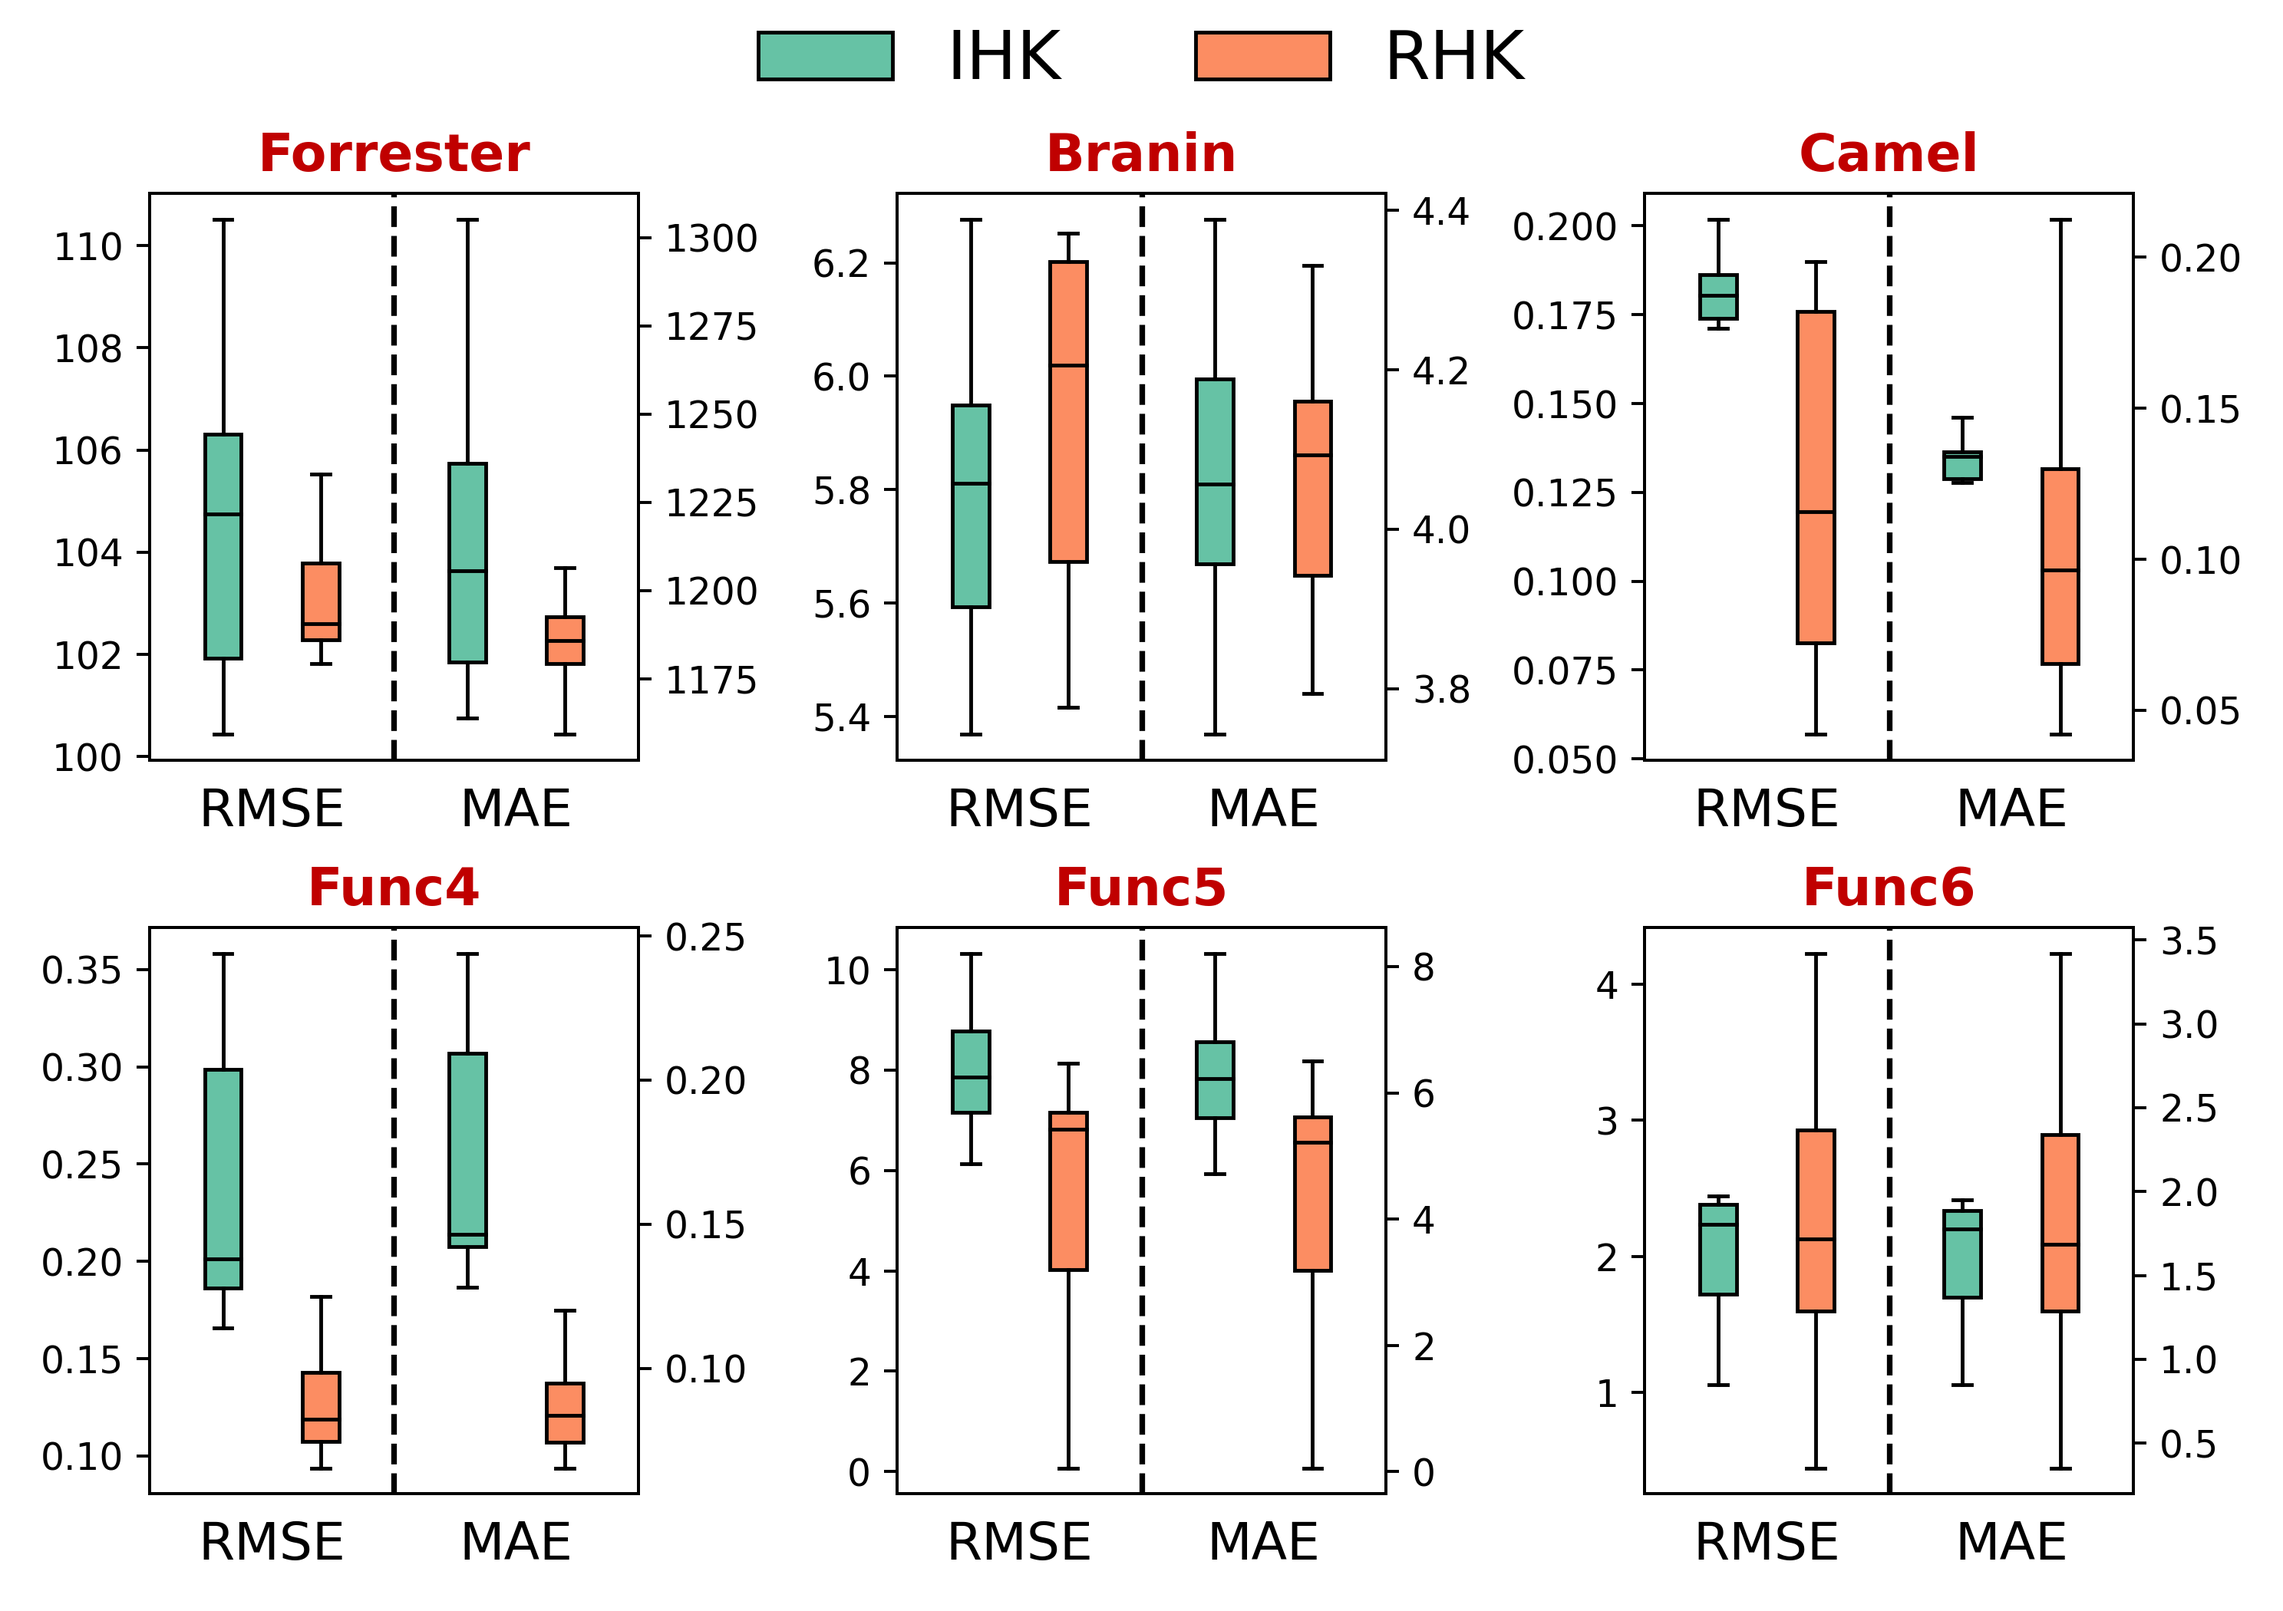
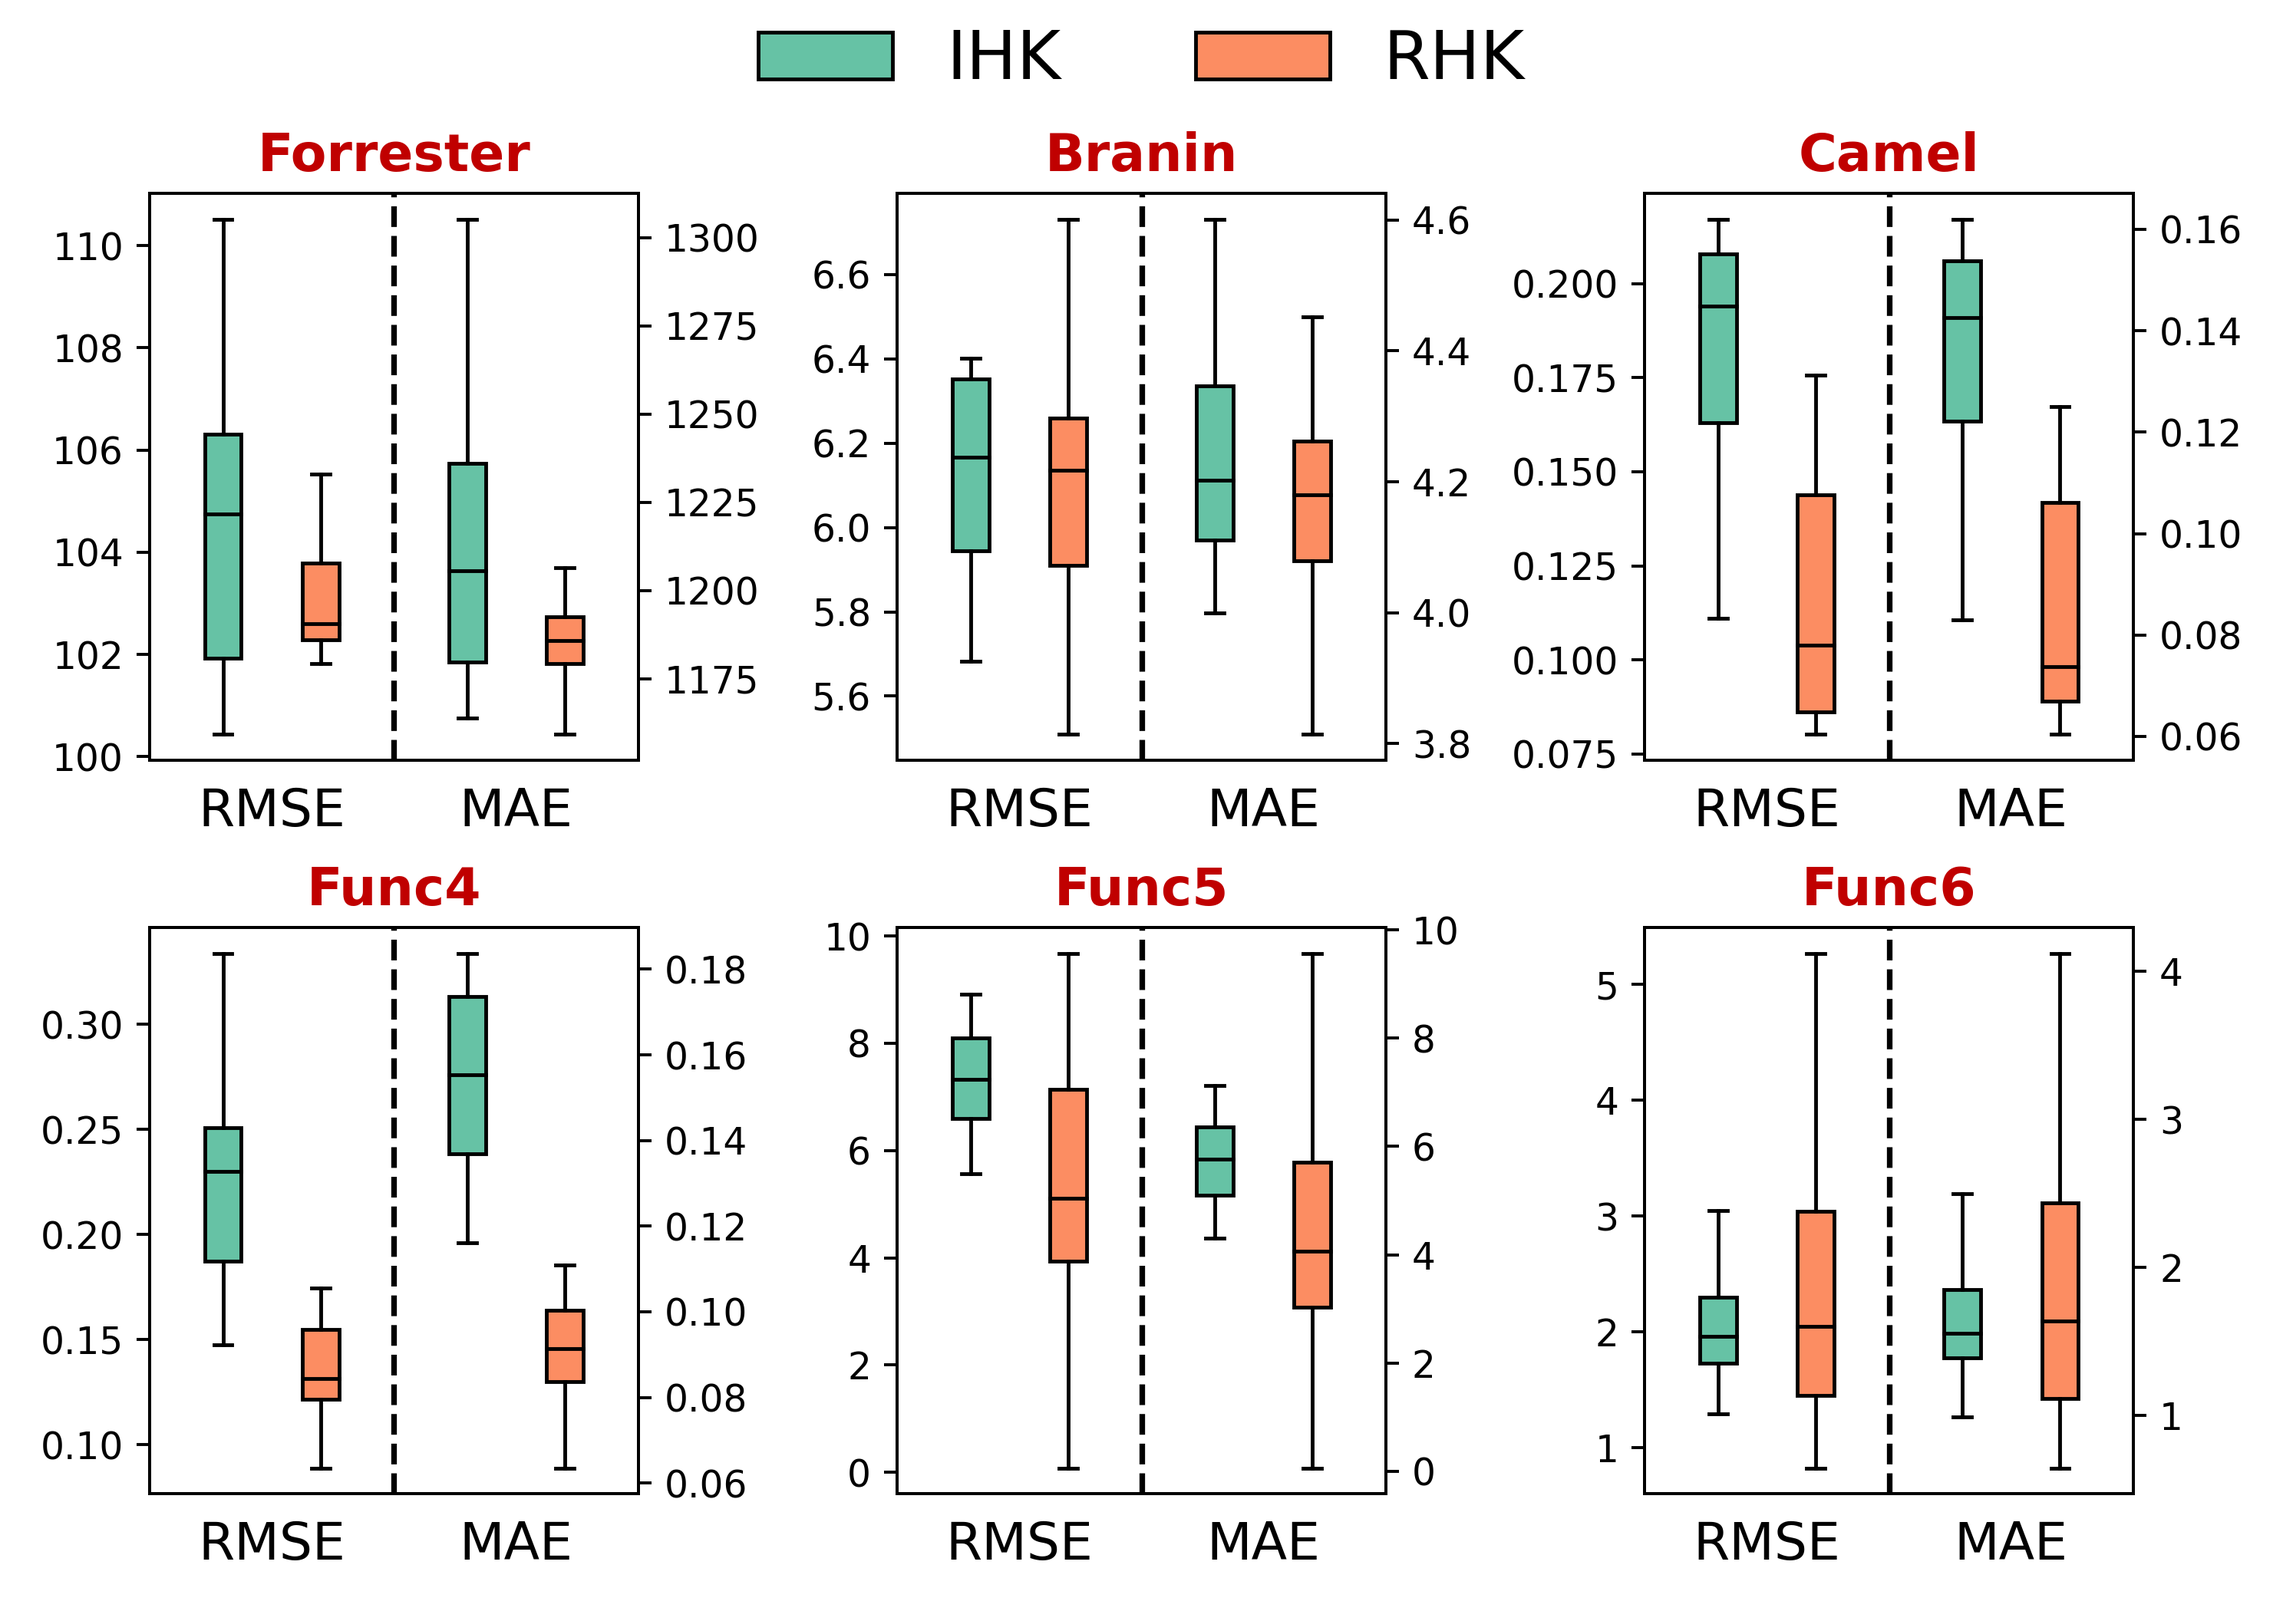
230628

diff --git a/Eng_2d_RAE2822/asdf.py b/Eng_2d_RAE2822/asdf.py
@@ -1,13 +1,21 @@
 from run_functions.train_models import train_models
 from Eng_2d_RAE2822.plot_2d_RAE import *
 import numpy as np
+from sklearn.preprocessing import MinMaxScaler
 
 
 qoi_data = np.load("RAE2822_2D_qoi.npy")
 ma_data = np.load("RAE2822_2D_ma.npy")
 aoa_data = np.load("RAE2822_2D_aoa.npy")
 
-index_qoi = 1 # 0: Cl, 1: Cd, 2:Cm
+# Normalize Ma, AoA
+# ma_scaler, aoa_scaler = MinMaxScaler(), MinMaxScaler()
+# ma_data = ma_scaler.fit_transform(ma_data.reshape(-1, 1))
+# aoa_data = aoa_scaler.fit_transform(aoa_data.reshape(-1, 1))
+# ma_data, aoa_data = ma_data.reshape(-1), aoa_data.reshape(-1)
+
+index_qoi = 2 # 0: Cl, 1: Cd, 2:Cm
+coef_name = ["cl", "cd", "cm"]
 
 entire_x = np.zeros((ma_data.shape[0] * aoa_data.shape[0], 2))
 entire_LF_y = np.zeros((ma_data.shape[0] * aoa_data.shape[0]))
@@ -23,9 +31,9 @@ for ma_idx in range(qoi_data.shape[2]):
         entire_HF_y[qoi_data.shape[3] * ma_idx + aoa_idx] = qoi_data[2, index_qoi, ma_idx, aoa_idx]
 
 np.random.seed(42)
-LF_rand_idx = np.random.choice(np.arange(0, ma_data.shape[0] * aoa_data.shape[0]), size=100, replace=False)
-MF_rand_idx = np.random.choice(np.arange(0, ma_data.shape[0] * aoa_data.shape[0]), size=50, replace=False)
-HF_rand_idx = np.random.choice(np.arange(0, ma_data.shape[0] * aoa_data.shape[0]), size=25, replace=False)
+LF_rand_idx = np.random.choice(np.arange(0, ma_data.shape[0] * aoa_data.shape[0]), size=150, replace=False)
+MF_rand_idx = np.random.choice(np.arange(0, ma_data.shape[0] * aoa_data.shape[0]), size=100, replace=False)
+HF_rand_idx = np.random.choice(np.arange(0, ma_data.shape[0] * aoa_data.shape[0]), size=50, replace=False)
 
 LF_x = entire_x[LF_rand_idx]
 MF_x = entire_x[MF_rand_idx]
@@ -52,9 +60,9 @@ print("RHK likelihood: ", np.mean(RHK_likeli, axis=0))
 print("RHK error: ", np.mean(r_errors, axis=0))
 print("RHK time: ", np.sum(RHK_time))
 
-np.save(f"IHK_likeli.npy", IHK_likeli)
-np.save(f"RHK_likeli.npy", RHK_likeli)
-np.save(f"IHK_i_errors.npy", i_errors)
-np.save(f"RHK_r_errors.npy", r_errors)
-np.save(f"IHK_time.npy", IHK_time)
-np.save(f"RHK_time.npy", RHK_time)
+np.save(f"IHK_likeli_{coef_name[index_qoi]}.npy", IHK_likeli)
+np.save(f"RHK_likeli_{coef_name[index_qoi]}.npy", RHK_likeli)
+np.save(f"IHK_i_errors_{coef_name[index_qoi]}.npy", i_errors)
+np.save(f"RHK_r_errors_{coef_name[index_qoi]}.npy", r_errors)
+np.save(f"IHK_time_{coef_name[index_qoi]}.npy", IHK_time)
+np.save(f"RHK_time_{coef_name[index_qoi]}.npy", RHK_time)

diff --git a/run_functions/train_models.py b/run_functions/train_models.py
@@ -2,8 +2,22 @@ from surrogate_model.HK import HK
 import numpy as np
 import copy
 import time
+from sklearn.preprocessing import MinMaxScaler
 
 def train_models(X, Y, add_noise=None, pop=30, gen=100, repetition=1, history=False, print_time=True, rand_seed=42, test_x=None, test_y=None):
+
+	x_scaler_list, x_scaled = [], []
+	for level, x in enumerate(X):
+		if level == 0:
+			x_scaler = MinMaxScaler()
+			x = x_scaler.fit_transform(x)
+		else:
+		# x_scaler_list.append(x_scaler)
+			x = x_scaler.transform(x)
+		x_scaled.append(x)
+	X = x_scaled
+
+	test_x = x_scaler.transform(test_x)
 
 	if add_noise is None:
 		add_noise = [[0, 0.2, 0.2], [1, 0.1, 0.1]] # Default noise: add std=0.2 Gaussian noise to the lowest fidelity output & std=0.1 to the mid fidelity output
@@ -50,4 +64,4 @@ def train_models(X, Y, add_noise=None, pop=30, gen=100, repetition=1, history=Fa
 		print(f"{repeat + 1}th IHK time: {IHK_time_ / 60:.3f} m & error: {i_errors[repeat]}")
 		print(f"{repeat + 1}th RHK time: {RHK_time_ / 60:.3f} m & error: {r_errors[repeat]}")
 		print(IHK.total_MLE, RHK.total_MLE)
-	return IHKs, RHKs, i_errors, r_errors, IHK_likeli, RHK_likeli, np.array(IHK_time), np.array(RHK_time)
+	return IHKs, RHKs, i_errors, r_errors, IHK_likeli, RHK_likeli, np.array(IHK_time), np.array(RHK_time), x_scaler

diff --git a/run_functions/Test_function_6.py b/run_functions/Test_function_6.py
@@ -19,9 +19,9 @@ HF_y = HF_function(HF_x).reshape(-1, 1)
 test_x = lhs(in_dim, samples=300, criterion='maximin') * 1 + 2
 ground_truth = HF_function(test_x)
 
-IHKs, RHKs, i_errors, r_errors, IHK_likeli, RHK_likeli, IHK_time, RHK_time = train_models([LF_x, MF_x, HF_x], [LF_y, MF_y, HF_y],
+IHKs, RHKs, i_errors, r_errors, IHK_likeli, RHK_likeli, IHK_time, RHK_time, x_scaler = train_models([LF_x, MF_x, HF_x], [LF_y, MF_y, HF_y],
                                               test_x=test_x, test_y=ground_truth,
-                                              history=True, repetition=15, add_noise=[[0, 0.01, 0.5], [1, 0.01/2, 0.5/2]], rand_seed=42)
+                                              history=True, repetition=1, add_noise=[[0, 0.01, 0.5], [1, 0.01/2, 0.5/2]], rand_seed=42)
 
 print("IHK likelihood: ", np.mean(IHK_likeli, axis=0))
 print("IHK error: ", np.mean(i_errors, axis=0))
@@ -38,6 +38,7 @@ np.save(f"../results_functions/error/RHK_{function_name}.npy", r_errors)
 np.save(f"../results_functions/time/IHK_{function_name}.npy", IHK_time)
 np.save(f"../results_functions/time/RHK_{function_name}.npy", RHK_time)
 
+test_x = x_scaler.transform(test_x)
 i_pred = IHKs[0].predict(test_x, return_std=False)
 r_pred = RHKs[0].predict(test_x, return_std=False)
 

diff --git a/run_functions/Camel_function.py b/run_functions/Camel_function.py
@@ -25,7 +25,7 @@ HF_y = HF_function(HF_x).reshape(-1, 1)
 test_x = scaling_x(lhs(in_dim, samples=300, criterion='maximin'))
 ground_truth = HF_function(test_x)
 # print(np.min(ground_truth), np.max(ground_truth), np.max(ground_truth) - np.min(ground_truth))
-IHKs, RHKs, i_errors, r_errors, IHK_likeli, RHK_likeli, IHK_time, RHK_time = train_models([LF_x, MF_x, HF_x], [LF_y, MF_y, HF_y],
+IHKs, RHKs, i_errors, r_errors, IHK_likeli, RHK_likeli, IHK_time, RHK_time, x_scaler = train_models([LF_x, MF_x, HF_x], [LF_y, MF_y, HF_y],
                                               test_x=test_x, test_y=ground_truth,
                                               # history=True, repetition=15, add_noise=[[0, 0.0, 0.0], [1, 0.0, 0.0]], rand_seed=42)
                                               history=True, repetition=15, add_noise=[[0, 0.02, 0.04], [1, 0.02/2, 0.04/2]], rand_seed=42)
@@ -45,6 +45,7 @@ np.save(f"../results_functions/error/RHK_{function_name}.npy", r_errors)
 np.save(f"../results_functions/time/IHK_{function_name}.npy", IHK_time)
 np.save(f"../results_functions/time/RHK_{function_name}.npy", RHK_time)
 
+test_x = x_scaler.transform(test_x)
 i_pred = IHKs[0].predict(test_x, return_std=False)
 r_pred = RHKs[0].predict(test_x, return_std=False)
 

diff --git a/run_functions/Branin_function.py b/run_functions/Branin_function.py
@@ -25,7 +25,7 @@ HF_y = HF_function(HF_x).reshape(-1, 1)
 test_x = scaling_x(lhs(in_dim, samples=300, criterion='maximin'))
 ground_truth = HF_function(test_x)
 
-IHKs, RHKs, i_errors, r_errors, IHK_likeli, RHK_likeli, IHK_time, RHK_time = train_models([LF_x, MF_x, HF_x], [LF_y, MF_y, HF_y],
+IHKs, RHKs, i_errors, r_errors, IHK_likeli, RHK_likeli, IHK_time, RHK_time, x_scaler = train_models([LF_x, MF_x, HF_x], [LF_y, MF_y, HF_y],
                                               test_x=test_x, test_y=ground_truth,
                                               history=True, repetition=15, add_noise=[[0, 0.01, 2.25], [1, 0.01/5, 2.25/2]], rand_seed=42)
 
@@ -44,10 +44,11 @@ np.save(f"../results_functions/error/RHK_{function_name}.npy", r_errors)
 np.save(f"../results_functions/time/IHK_{function_name}.npy", IHK_time)
 np.save(f"../results_functions/time/RHK_{function_name}.npy", RHK_time)
 
+test_x = x_scaler.transform(test_x)
 i_pred = IHKs[0].predict(test_x, return_std=False)
 r_pred = RHKs[0].predict(test_x, return_std=False)
 
-plot_scatter(ground_truth, i_pred, r_pred, title="Forrester function")
+plot_scatter(ground_truth, i_pred, r_pred, title="Branin function")
 plot_Branin(IHKs[0], RHKs[0], HF_function)
 
 

diff --git a/run_functions/Test_function_5.py b/run_functions/Test_function_5.py
@@ -20,7 +20,7 @@ HF_y = HF_function(HF_x).reshape(-1, 1)
 test_x = lhs(in_dim, samples=300, criterion='maximin') * 2 + 4
 ground_truth = HF_function(test_x)
 
-IHKs, RHKs, i_errors, r_errors, IHK_likeli, RHK_likeli, IHK_time, RHK_time = train_models([LF_x, MF_x, HF_x], [LF_y, MF_y, HF_y],
+IHKs, RHKs, i_errors, r_errors, IHK_likeli, RHK_likeli, IHK_time, RHK_time, x_scaler = train_models([LF_x, MF_x, HF_x], [LF_y, MF_y, HF_y],
                                               test_x=test_x, test_y=ground_truth,
                                               history=True, repetition=15, add_noise=[[0, 0.01/2, 3.15], [1, 0.01/2, 3.15/2]], rand_seed=42)
 
@@ -39,6 +39,7 @@ np.save(f"../results_functions/error/RHK_{function_name}.npy", r_errors)
 np.save(f"../results_functions/time/IHK_{function_name}.npy", IHK_time)
 np.save(f"../results_functions/time/RHK_{function_name}.npy", RHK_time)
 
+test_x = x_scaler.transform(test_x)
 i_pred = IHKs[0].predict(test_x, return_std=False)
 r_pred = RHKs[0].predict(test_x, return_std=False)
 

diff --git a/run_functions/Test_function_4.py b/run_functions/Test_function_4.py
@@ -18,7 +18,7 @@ HF_y = HF_function(HF_x).reshape(-1, 1)
 test_x = lhs(in_dim, samples=300, criterion='maximin') * 1
 ground_truth = HF_function(test_x)
 
-IHKs, RHKs, i_errors, r_errors, IHK_likeli, RHK_likeli, IHK_time, RHK_time = train_models([LF_x, MF_x, HF_x], [LF_y, MF_y, HF_y],
+IHKs, RHKs, i_errors, r_errors, IHK_likeli, RHK_likeli, IHK_time, RHK_time, x_scaler = train_models([LF_x, MF_x, HF_x], [LF_y, MF_y, HF_y],
                                               test_x=test_x, test_y=ground_truth,
                                               history=True, repetition=15, add_noise=[[0, 0.01, 0.11], [1, 0.01/2, 0.11/2]], rand_seed=42)
 
@@ -37,6 +37,7 @@ np.save(f"../results_functions/error/RHK_{function_name}.npy", r_errors)
 np.save(f"../results_functions/time/IHK_{function_name}.npy", IHK_time)
 np.save(f"../results_functions/time/RHK_{function_name}.npy", RHK_time)
 
+test_x = x_scaler.transform(test_x)
 i_pred = IHKs[0].predict(test_x, return_std=False)
 r_pred = RHKs[0].predict(test_x, return_std=False)
 

diff --git a/run_functions/Forrester_function.py b/run_functions/Forrester_function.py
@@ -21,7 +21,7 @@ test_x = np.linspace(0, 1, 300).reshape(-1, 1)
 ground_truth = HF_function(test_x)
 
 
-IHKs, RHKs, i_errors, r_errors, IHK_likeli, RHK_likeli, IHK_time, RHK_time = train_models([LF_x, MF_x, HF_x], [LF_y, MF_y, HF_y],
+IHKs, RHKs, i_errors, r_errors, IHK_likeli, RHK_likeli, IHK_time, RHK_time, x_scaler = train_models([LF_x, MF_x, HF_x], [LF_y, MF_y, HF_y],
                                               test_x=test_x, test_y=ground_truth,
                                               history=False, repetition=15, add_noise=[[0, 0.01, 0.22], [1, 0.01/2, 0.22/2]], rand_seed=42)
 
@@ -49,6 +49,8 @@ np.save(f"../results_functions/time/RHK_{function_name}.npy", RHK_time)
 #     ax = plot_Forrester(test_x, ground_truth, IHKs[idx], RHKs[idx])
 #     ax.set_title(idx)
 #     plt.show()
+
+test_x = x_scaler.transform(test_x)
 ax = plot_Forrester(test_x, ground_truth, IHKs[9], RHKs[9])
 ax.figure.savefig("../results_functions/Forrester_pedagogical.png")
 
